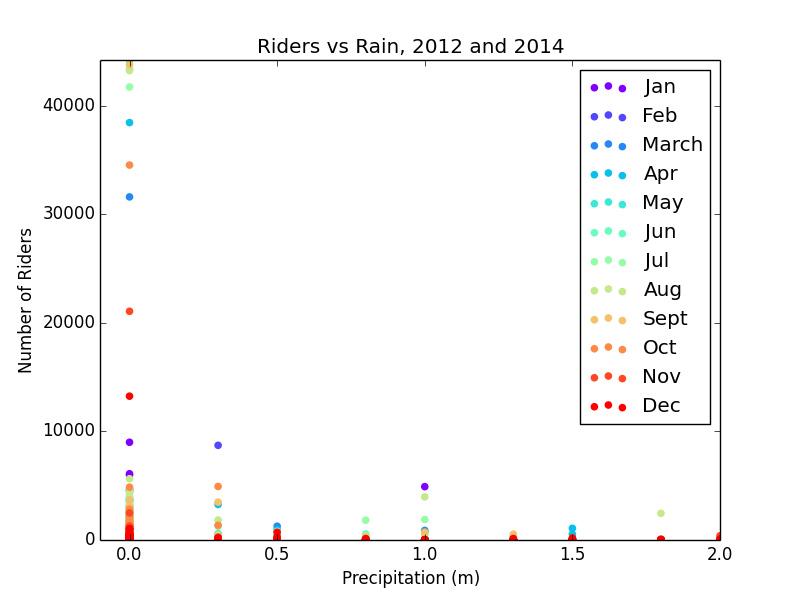
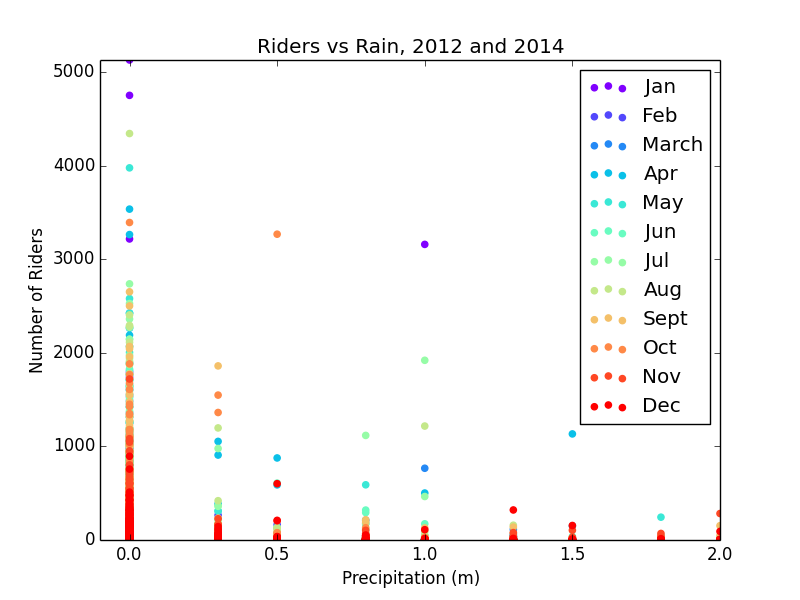
Changed the buffers for the timeframes in the Riders V Rain plot code (plotCode.py)

diff --git a/plotCode.py b/plotCode.py
@@ -59,11 +59,16 @@ def plotObserved(riders, weather):
         # Loop over all the instances of weather in the month i and determine the number of riders during the rainfall level observed.
         for x in range(0, len(weatherMonths['date'])): 
             date = weatherMonths['date'][x] # date is now a datetime object, just for less writing
+
+            buff_less = datetime.timedelta(minutes = 15);
+            buff_over = buff_less
+            if x > 0:
+                buff_less = date - weatherMonths['date'][x-1]
             if x < (len(weatherMonths['date'])-1): # i.e., if we're not on the last element (because we access the next element)
-                buff = weatherMonths['date'][x+1] - date # create a buffer for the timeframe to view ridership
+                buff_over = weatherMonths['date'][x+1] - date # create a buffer for the timeframe to view ridership
 
             # Find all bikes in use during the timeframe.
-            bikesInUse = (ridMonths.loc[(ridMonths['Start date'] >= (date-buff)) & (ridMonths['End date'] < (date + buff))])
+            bikesInUse = (ridMonths.loc[(ridMonths['Start date'] >= (date-buff_less)) & (ridMonths['End date'] < (date + buff_over))])
             if len(bikesInUse) > max_:
                 max_ = len(bikesInUse)
             counts.append(len(bikesInUse)) # store the number of bikes in use during the timeframe
@@ -85,7 +90,7 @@ def plotObserved(riders, weather):
     plt.xlabel("Precipitation (m)")
     plt.xlim([-0.1,2]) 
     plt.ylim([-1, max_])
-    # plt.axis('tight') # This line will set the axis so that all data, and just all data, is shown. 
+    #plt.axis('tight') # This line will set the axis so that all data, and just all data, is shown. 
 
     # Show the plot.
     plt.show()
